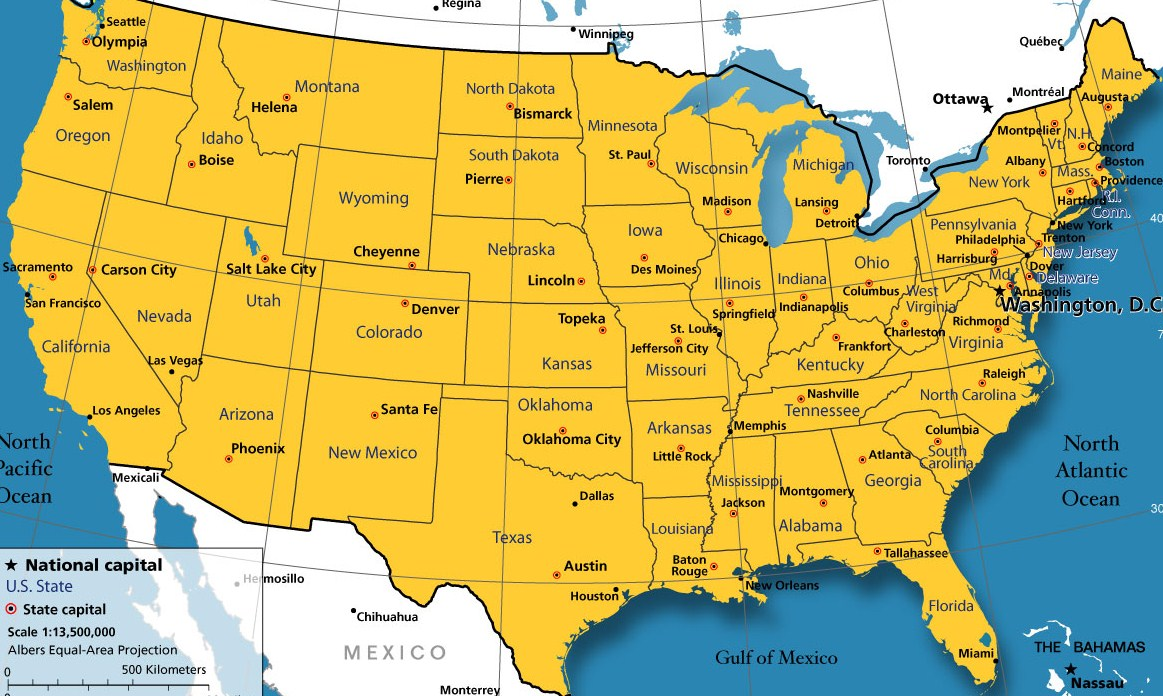
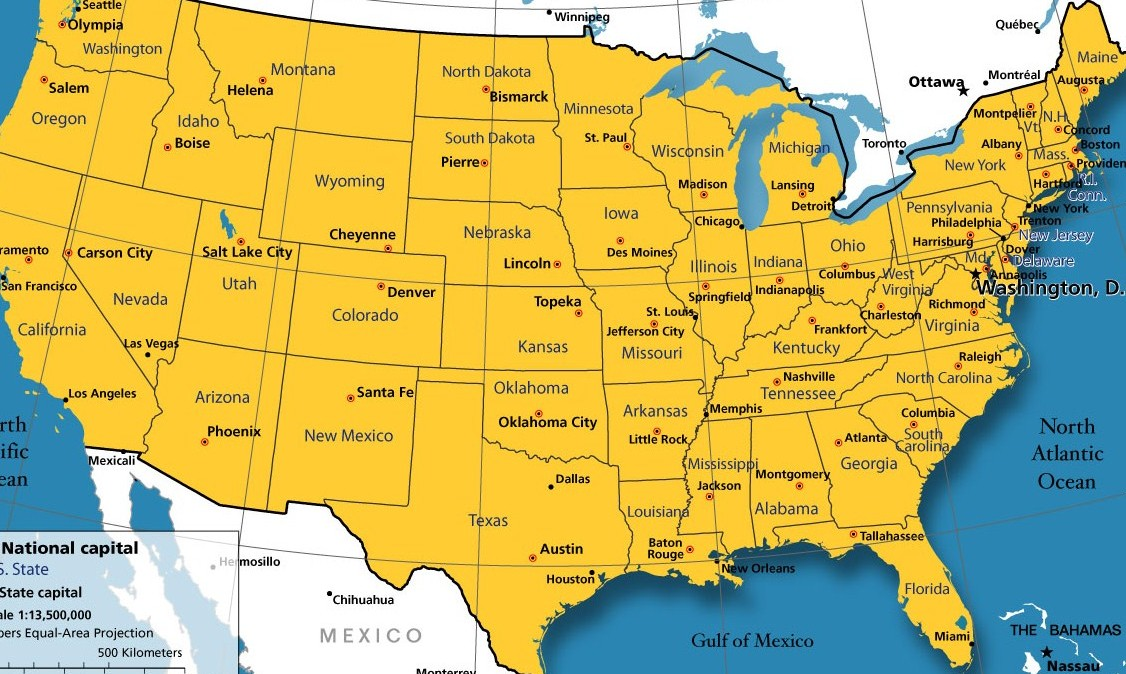
changed to use the surface class
changed to use the surface so that I can manipulate the color of the
dots easier.

diff --git a/src/HW04_gonzalrd_KDV2App.cpp b/src/HW04_gonzalrd_KDV2App.cpp
@@ -22,9 +22,14 @@ class HW04_gonzalrd_KDV2App : public AppBasic {
 
   public:
 	void setup();
+	//void keyDown(keyDown event);
 	void mouseDown( MouseEvent event );	
 	void update();
 	void draw();
+	void zoom();
+	void drawLocs(uint8_t* pixels);
+	void drawCircle(uint8_t* pixels, int center_x, int center_y, int r, Color8u c);
+	void prepareSettings(Settings* settings);
 	Entry*read();
 	
 
@@ -37,11 +42,12 @@ private:
 	int mapHeight;
 	Entry*myLocs;
 	CameraPersp mCam;
+
 	
 
-	static const int kAppWidth=800;
-	static const int kAppHeight=600;
-	static const int kTextureSize=1024;
+	static const int kAppWidth=1126;
+	static const int kAppHeight= 674;
+	static const int kTextureSize=2048;
 	
 
 };
@@ -92,26 +98,39 @@ Entry* HW04_gonzalrd_KDV2App::read()
 	
 }
 
+void HW04_gonzalrd_KDV2App::prepareSettings(Settings* settings){
+	(*settings).setWindowSize(kAppWidth,kAppHeight);
+	(*settings).setResizable(false);
+}
+
 
 
 void HW04_gonzalrd_KDV2App::setup()
 {
 
-	myImage = gl::Texture( loadImage("usa-map2.jpg"));
-	mapWidth = myImage.getWidth();
-	mapHeight = myImage.getHeight();
+	map = new Surface(loadImage("usa-map.jpg"));
+
+	uint8_t* dataArray = (*map).getData();
+
+	
+	
+
+	
+
+	//mapWidth = myImage.getWidth();
+	//mapHeight = myImage.getHeight();
 
 //	gonzalrdStarbucks star;
 
-	mCam.setPerspective( 60.0f, mapWidth/mapHeight, 5.0f, 400.0f );
+	//set up for camera for zoom
+	mCam.setPerspective( 60.0f, getWindowAspectRatio(), 5.0f, -1.0f);
 
-	Vec3f mEye  = Vec3f( 0.0f, 0.0f, 500.0f );
-	Vec3f mCenter = Vec3f::zero();
-	Vec3f mUp  =  Vec3f::yAxis();
-	
-	mCam.lookAt( mEye, mCenter, mUp );
 
-   myLocs = read();
+
+   myLocs = read();   
+
+   drawLocs(dataArray);
+
 
 
 //	star.build(myLocs,size);
@@ -120,17 +139,87 @@ void HW04_gonzalrd_KDV2App::setup()
 
 }
 
+//Goal D.
+void HW04_gonzalrd_KDV2App::zoom(){
+
+	Vec3f mEye  = Vec3f( 0.0f, 0.0f, 7000.0f );
+	Vec3f mCenter = Vec3f::zero();
+	Vec3f mUp  =  Vec3f::zAxis();
+	
+	mCam.lookAt( mEye, mCenter, mUp );
+
+	mCam.setAspectRatio( getWindowAspectRatio() );
+
+	gl::setMatrices(mCam);
+
+}
+
 void HW04_gonzalrd_KDV2App::mouseDown( MouseEvent event )
 {
 	float x = event.getX();
 	float y = event.getY();
 
-	gl::setMatrices( mCam );
+	zoom();
 
 }
 
+//void HW04_gonzalrd_KDV2App::keyDown( KeyDown event){
+
+
+//}
+
 void HW04_gonzalrd_KDV2App::update()
 {
+	//writeImage("gonzalrd.png",*map);
+}
+
+void HW04_gonzalrd_KDV2App::drawCircle(uint8_t* pixels, int center_x, int center_y, int r, Color8u c){
+	for(int y = center_y-r; y<=center_y+r; y++){
+		for(int  x =center_x-r; x<=center_x+r; x++){
+			//Bounds test, to make sure we don't access array out of bounds
+			if(y < 0 || x < 0 || x >= kAppWidth || y >= kAppHeight) continue;
+			
+					
+			int dist = (int)sqrt((double)((x-center_x)*(x-center_x) + (y-center_y)*(y-center_y)));
+			if(dist <= r){
+
+				int offset = x + y*kAppWidth;
+					pixels[3*(offset)] =  c.r;
+					pixels[3*(offset)+1] = c.b;
+					pixels[3*(offset)+2] =  c.g;
+				
+			}
+		}
+	}
+}
+
+//Goal A
+void HW04_gonzalrd_KDV2App::drawLocs(uint8_t* pixels){
+	int x;
+	int y;
+
+	float refx;
+	float refy;
+
+	int rad = 2;
+
+	Color8u c = Color8u(12,100,130);
+
+	for(int i = 0; i<1; i++){
+		//if(myLocs[i].x < 0.61 && myLocs[i].x >0.56 && myLocs[i].y < .72 && myLocs[i].y < .70 ){
+
+		// = .5-myLocs[i].x;
+		// =  .5-myLocs[i].y;
+
+		x =  myLocs[i].x*kAppWidth;
+		y =  myLocs[i].y*kAppHeight;
+
+		drawCircle(pixels, x, y , rad , c);
+
+		//gl::drawSolidCircle( Vec2f( x, y ), 10.0f );
+		
+	
+	}
 
 }
 
@@ -139,24 +228,7 @@ void HW04_gonzalrd_KDV2App::draw()
 	// clear out the window with black
 	//gl::clear( Color( 0, 0, 0 ) ); 
 
-	gl::draw( myImage, getWindowBounds());
-
-	float x;
-	float y;
-	
-	float refLine = .5;
-	
-	gl::color(Color(0.1f, 0.3f, 0.3f));
-
-	for(int i = 0; i<size; i++){
-		//if(myLocs[i].x < 0.61 && myLocs[i].x >0.56 && myLocs[i].y < .72 && myLocs[i].y < .70 ){
-		x = myLocs[i].x*mapWidth-200;
-		y = myLocs[i].y*mapHeight-200;
-		gl::drawSolidCircle( Vec2f( x , y ), 3.4f );
-		//}
-	
-	}
-
+	gl::draw(*map);
 	
 
 }
